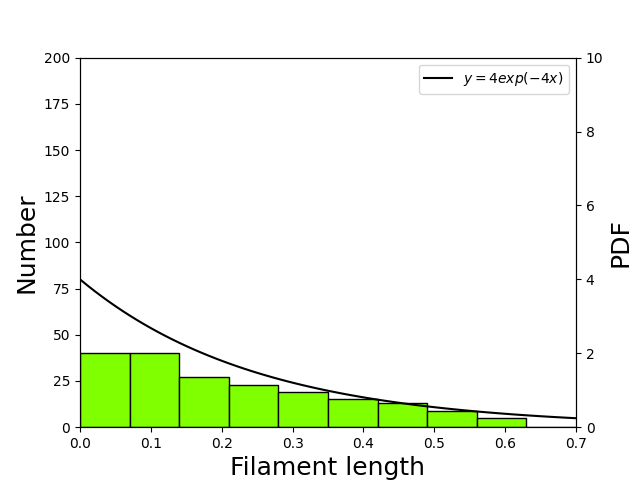
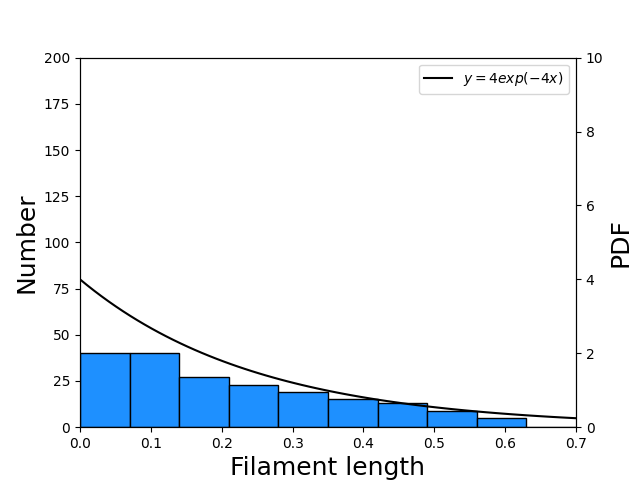
0907n

Changed region(s): [[0.125, 0.7188, 0.8438, 0.9062]]

diff --git a/length_per/gamma/twohistgraph.py b/length_per/gamma/twohistgraph.py
@@ -4,11 +4,11 @@ import matplotlib.pyplot as plt
 import math
 import scipy.special as sps
 
-df = np.loadtxt('len_gamma_k3.0_sig0.1.dat')
+df = np.loadtxt('len_gamma_k2.0_sig0.1.dat')
 #df1 = df.round(2)
 
-N= 147
-k = 3.0
+N= 221
+k = 2.0
 sig = 0.1
 x = np.linspace(0,1,100)
 y =  x**(k-1)*(np.exp(-x/sig) / (sps.gamma(k)*sig**k))
@@ -17,7 +17,7 @@ fig = plt.figure()
 ax1 = fig.add_subplot(1, 1, 1)
 ax2 = ax1.twinx()
 
-ret = ax1.hist(df, bins=10, range=(0.0,0.7), histtype='barstacked', ec='black', color='chartreuse')
+ret = ax1.hist(df, bins=10, range=(0.0,0.7), histtype='barstacked', ec='black', color='lightcoral')
 #ret1 = list(ret)
 #ret1[0] = ret1[0]/491
 print(ret[1])
@@ -25,7 +25,7 @@ print(ret[1])
 #file.writelines(str(ret))
 #file.close()
 
-ax2.plot(x, y, '-', c='black', label =r'$k=4.0, \theta =0.1$')
+ax2.plot(x, y, '-', c='black', label =r'$k=2.0, \theta =0.1$')
 ax1.set_xlabel(r"Filament length", fontsize = 18)
 ax1.set_ylabel(r"Number", fontsize = 18)
 ax2.set_ylabel(r"PDF", fontsize = 18)

diff --git a/length_per/twohistgraph.py b/length_per/twohistgraph.py
@@ -3,17 +3,17 @@ import numpy as np
 import matplotlib.pyplot as plt
 import math
 
-df = np.loadtxt('len_ramda10.dat')
+df = np.loadtxt('len_ramda4.dat')
 #df1 = df.round(2)
 
 x = np.linspace(0,1,100)
-y = 10*np.exp(-10*x)
+y = 4*np.exp(-4*x)
 
 fig = plt.figure()
 ax1 = fig.add_subplot(1, 1, 1)
 ax2 = ax1.twinx()
 
-ret = ax1.hist(df, bins=10, range=(0.0,0.7), histtype='barstacked', ec='black', color='magenta')
+ret = ax1.hist(df, bins=10, range=(0.0,0.7), histtype='barstacked', ec='black', color='dodgerblue')
 #ret1 = list(ret)
 #ret1[0] = ret1[0]/491
 print(ret[1])
@@ -29,5 +29,5 @@ plt.xlim([0,0.7])
 ax1.set_ylim([0,200])
 ax2.set_ylim([0,10])
 ax2.legend(loc='best')
-fig.savefig("color_twohist_len_ramda10.png")
+fig.savefig("color_twohist_len_ramda4.png")
 plt.show()
